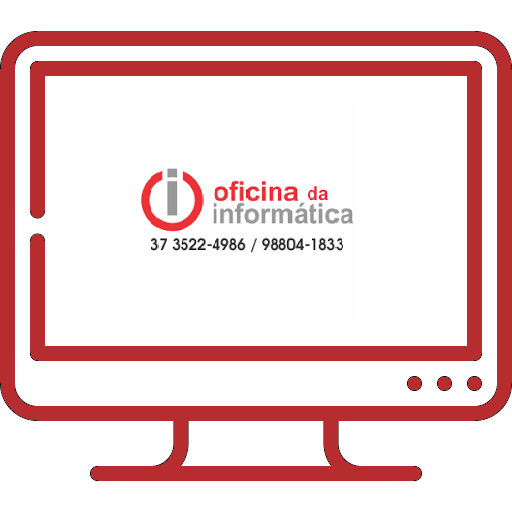
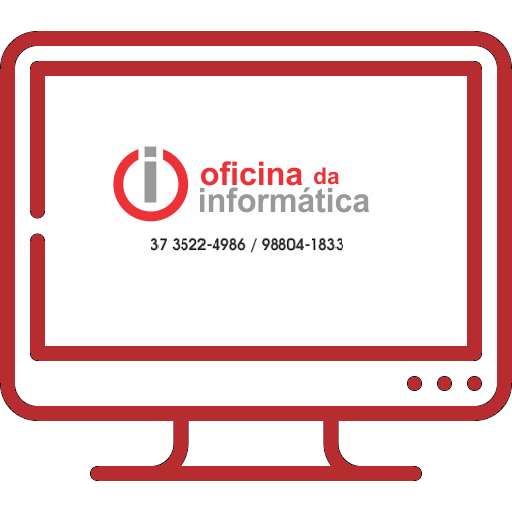
Section 1 done

Changed region(s): [[0.2188, 0.2812, 0.7188, 0.4688]]

diff --git a/src/Pages/HomePage/Home.elements.tsx b/src/Pages/HomePage/Home.elements.tsx
@@ -1,12 +1,15 @@
 import styled from "styled-components";
 
+/// Section One /////////////////////////////////////////
+
 export const Sectionone = styled.section`
   display: flex;
   flex-direction: row;
   width: 100%;
 
-  @media screen and (max-width: 768px) {
+  @media screen and (max-width: 998px) {
     flex-direction: column;
+    align-items: center;
   }
 `;
 
@@ -14,14 +17,15 @@ export const ContainerText = styled.div`
   width: 45%;
   margin-top: 100px;
 
-  @media screen and (max-width: 768px) {
-    width: 90%;
+  @media screen and (max-width: 996px) {
+    width: 60%;
     display: flex;
     flex-direction: column;
+    text-align: center;
   }
 `;
 export const MainText = styled.h1`
-  font-size: 64px;
+  font-size: 50px;
 
   @media screen and (max-width: 768px) {
     text-align: center;
@@ -30,9 +34,9 @@ export const MainText = styled.h1`
 
 export const SecondText = styled.p`
   margin-top: 30px;
-  font-size: 32px;
+  font-size: 24px;
   color: #696969;
-  @media screen and (max-width: 768px) {
+  @media screen and (max-width: 996px) {
     text-align: center;
   }
 `;
@@ -57,7 +61,7 @@ export const Btn = styled.button`
     background-color: #fff;
   }
 
-  @media screen and (max-width: 768px) {
+  @media screen and (max-width: 996px) {
     align-self: center;
   }
 `;
@@ -68,7 +72,7 @@ export const ImgContainer = styled.div`
   width: 50%;
   justify-content: center;
 
-  @media screen and (max-width: 768px) {
+  @media screen and (max-width: 996px) {
     width: 100%;
     display: flex;
     margin-left: 0px;
@@ -76,8 +80,30 @@ export const ImgContainer = styled.div`
 `;
 
 export const ImgOne = styled.img`
-  width: 640px;
-  @media screen and (max-width: 768px) {
+  width: 40vw;
+  @media screen and (max-width: 996px) {
     width: 80%;
   }
 `;
+
+/// Section Two /////////////////////////////////////////
+
+export const SectionTwo = styled.section`
+  width: 100%;
+`;
+
+export const SectionTwoTitle = styled.h2`
+  margin-top: 100px;
+  font-size: 50px;
+  text-align: center;
+`;
+
+export const GridContainer = styled.div`
+  margin: auto;
+  display: grid;
+  grid-template-columns: repeat(auto-fit, minmax(610, 1fr));
+`;
+
+export const GridItem = styled.div``;
+
+export const GridImage = styled.img``;

diff --git a/src/Pages/HomePage/Home.tsx b/src/Pages/HomePage/Home.tsx
@@ -8,6 +8,11 @@ import {
   Btn,
   ImgContainer,
   ImgOne,
+  SectionTwo,
+  SectionTwoTitle,
+  GridContainer,
+  GridItem,
+  GridImage,
 } from "./Home.elements";
 
 // IMAGES
@@ -27,6 +32,14 @@ export default function Home() {
           <ImgOne src={imageOne} />
         </ImgContainer>
       </Sectionone>
+      <SectionTwo>
+        <SectionTwoTitle>Quais problemas resolvemos para você?</SectionTwoTitle>
+        <GridContainer>
+          <GridItem>
+            <GridImage />
+          </GridItem>
+        </GridContainer>
+      </SectionTwo>
     </Container>
   );
 }

diff --git a/index.html b/index.html
@@ -3,8 +3,9 @@
   <head>
     <meta charset="UTF-8" />
     <link rel="icon" type="image/svg+xml" href="/vite.svg" />
+    <link href="https://fonts.googleapis.com/css2?family=Epilogue:wght@100&display=swap" rel="stylesheet">
     <meta name="viewport" content="width=device-width, initial-scale=1.0" />
-    <title>Vite + React + TS</title>
+    <title>Oficina da Informatica</title>
   </head>
   <body>
     <div id="root"></div>

diff --git a/src/Components/NavBar/Navbar.elements.tsx b/src/Components/NavBar/Navbar.elements.tsx
@@ -105,7 +105,7 @@ export const NavLinks = styled(Link)`
     width: 100%;
     display: table;
     &:hover {
-      color: #4b59f7;
+      color: #b72d2f;
       transition: all 0.5s ease;
     }
   }

diff --git a/src/globalStyles.tsx b/src/globalStyles.tsx
@@ -6,6 +6,7 @@ const GlobalStyle = createGlobalStyle`
     margin: 0;
     padding: 0;
     font-family: 'Source Sans Pro', sans-serif;
+    max-width: 100vw;
 }
 `;
 
